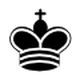
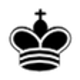
image resizer for different display sizes

diff --git a/game.py b/game.py
@@ -1,7 +1,5 @@
 import os
-import platform
-from tkinter import Frame, TclError, Tk
-from tkinter.constants import BOTH
+from tkinter import Button, Frame, TclError, Tk
 
 import pygame
 from pygame.locals import MOUSEBUTTONDOWN, QUIT
@@ -17,6 +15,7 @@ class Game(Client):
         super().__init__()
         self.connect()
         self.root = root
+        self.player = self.id
 
         if self.id == 1:
             self.logger = Logger(r"logs\whitelog.txt")
@@ -25,11 +24,9 @@ class Game(Client):
             self.logger = Logger(r"logs\blacklog.txt")
             self.root.title("BLACK PLAYER")
 
-        self.gameFrame = Frame(root, width=800, height=800)
-        self.gameFrame.pack(fill=BOTH)
+        self.setup_tk()
+
         os.environ["SDL_WINDOWID"] = str(self.gameFrame.winfo_id())
-        if platform.system == "Windows":
-            os.environ["SDL_VIDEODRIVER"] = "windib"
 
         pygame.init()
         self.win = pygame.display.set_mode((WIDTH, HEIGHT))
@@ -39,6 +36,18 @@ class Game(Client):
         self.board = self.send("get")
 
         self.store_images()
+        self.setup_board()
+
+    def setup_tk(self):
+        self.gameFrame = Frame(self.root, width=WIDTH, height=HEIGHT)
+        self.gameFrame.grid(row=0, column=0, columnspan=8, rowspan=8)
+        self.flipButton = Button(
+            self.root, text="Flip", bg="white", font=FONT(16), command=self.flip,
+        )
+        self.flipButton.grid(row=8, column=0, columnspan=8, sticky="we")
+
+    def flip(self):
+        self.player *= -1
         self.setup_board()
 
     def store_images(self):
@@ -65,28 +74,28 @@ class Game(Client):
 
     def draw_allowed(self):
         for row, col in self.board.allowed:
-            x, y = to_xy(row, col, self.id)
+            x, y = to_xy(row, col, self.player)
             cx, cy = x + HFBOX, y + HFBOX
             if self.board.has_piece(row, col):
                 self.square(x, y, color=self.theme[2])
                 pygame.draw.circle(self.win, self.theme[(row + col) % 2], (cx, cy), RADIUS)
                 self.draw_piece(self.board.piece_at(row, col), x, y)
             else:
-                pygame.draw.circle(self.win, self.theme[2], (cx, cy), 30)
+                pygame.draw.circle(self.win, self.theme[2], (cx, cy), int(HFBOX * 0.6))
 
     def reset_allowed(self):
         for row, col in self.board.allowed:
             self.update_square(row, col)
 
     def update_square(self, row, col):
-        x, y = to_xy(row, col, self.id)
+        x, y = to_xy(row, col, self.player)
         self.square(x, y)
         if self.board.has_piece(row, col):
             self.draw_piece(self.board.piece_at(row, col), x, y)
 
     def draw_along_path(self, piece, fro: tuple, to: tuple):
-        x1, y1 = to_xy(*fro, self.id)
-        x2, y2 = to_xy(*to, self.id)
+        x1, y1 = to_xy(*fro, self.player)
+        x2, y2 = to_xy(*to, self.player)
 
         xdiff = x2 - x1
         ydiff = y2 - y1
@@ -96,7 +105,7 @@ class Game(Client):
 
         abslope = 1 if xdiff == 0 else abs(ydiff / xdiff)
 
-        scale = max(1, self.get_distance(xdiff, ydiff) // 200)
+        scale = max(1, self.get_distance(xdiff, ydiff) // (BOX * 2))
         while abs(x1 - x2) >= 2 or abs(y1 - y2) >= 2:
             x1 += dirx * scale
             y1 += diry * abslope * scale
@@ -106,7 +115,7 @@ class Game(Client):
             pygame.time.delay(2)
 
     def redraw_neighbors(self, x, y, dest: tuple):
-        row, col = to_rowcol(x, y, self.id)
+        row, col = to_rowcol(x, y, self.player)
         rects = []
         nx = ny = 0
         for rShift in (-1, 0, 1):
@@ -114,7 +123,7 @@ class Game(Client):
                 nRow = int(row + rShift)
                 nCol = int(col + cShift)
                 if 0 <= nRow <= 7 and 0 <= nCol <= 7:
-                    nx, ny = to_xy(nRow, nCol, self.id)
+                    nx, ny = to_xy(nRow, nCol, self.player)
                     rects.append(self.square(nx, ny, BOX))
                     if self.board.has_piece(nRow, nCol) and dest != (nRow, nCol):
                         self.draw_piece(self.board.piece_at(nRow, nCol), nx, ny)
@@ -135,7 +144,7 @@ class Game(Client):
                     run = False
                 elif event.type == MOUSEBUTTONDOWN:
                     mouse = pygame.mouse.get_pos()
-                    row, col = to_rowcol(mouse[0], mouse[1], self.id)
+                    row, col = to_rowcol(mouse[0], mouse[1], self.player)
                     if self.board.turn != self.id:
                         break
                     if self.board.is_mine(row, col):

diff --git a/const.py b/const.py
@@ -1,17 +1,17 @@
 IP = "10.0.0.58"
+WIDTH = HEIGHT = 800
 
 ### DONT CHANGE BELOW THIS ###
 
 ADDR = (IP, 10000)
 BUF = 4096
 
-
-WIDTH = 800
-HEIGHT = 800
 BOX = HEIGHT // 8
 HFBOX = BOX // 2
-IMGSIZE = 80
-RADIUS = 48
+IMGSIZE = HEIGHT // 10
+RADIUS = int(HFBOX * 0.96)
+
+FONT = lambda size: ("Calibri", size, "bold")
 
 
 def to_rowcol(x, y, player=1):

diff --git a/logger.py b/logger.py
@@ -5,9 +5,6 @@ class Logger:
         self.writer = open(filename, mode=mode)
         self.closed = False
 
-    def is_closed(self):
-        return self.is_closed
-
     def close(self):
         if not self.closed:
             self.writer.close()

diff --git a/resizer.py b/resizer.py
@@ -1,0 +1,8 @@
+from PIL import Image
+import os
+from const import IMGSIZE
+
+os.chdir("images")
+for file in os.listdir(os.getcwd()):
+    img = Image.open(file).resize((IMGSIZE, IMGSIZE))
+    img.save(file)
